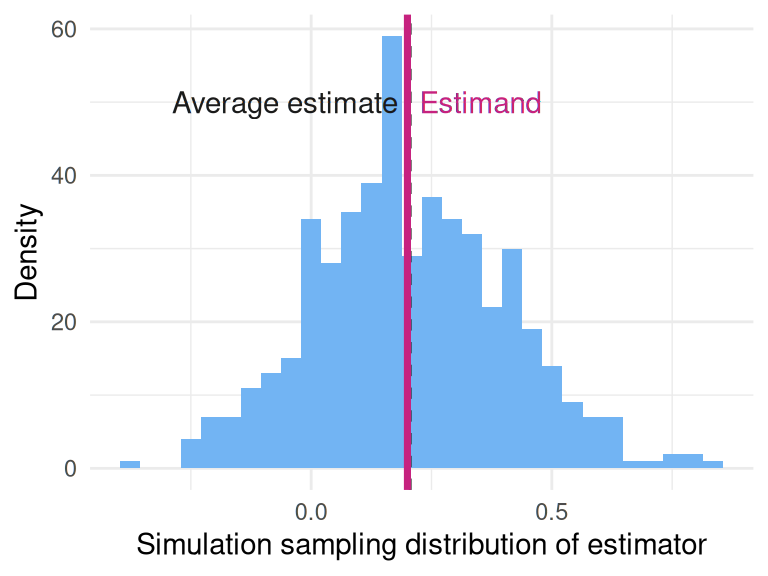
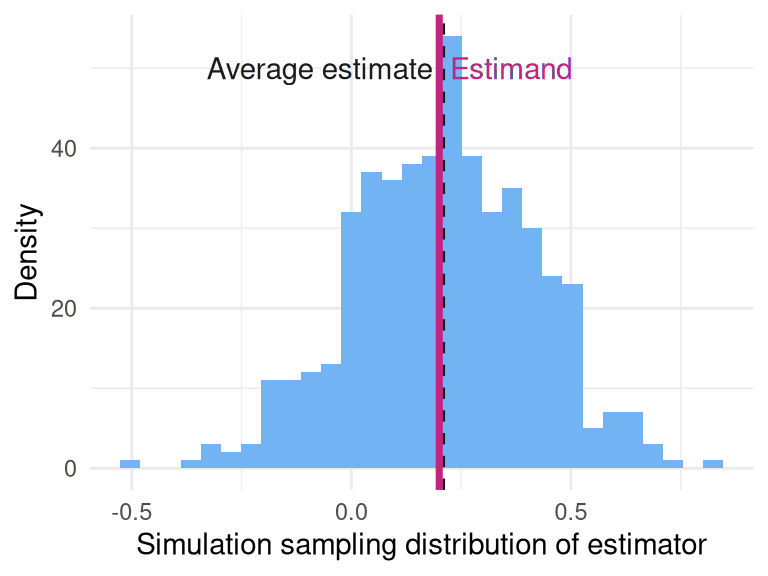
Built site for gh-pages

diff --git a/blog/index.html b/blog/index.html
@@ -239,7 +239,7 @@ window.Quarto = {
 
 <div class="quarto-listing quarto-listing-container-default" id="listing-listing">
 <div class="list quarto-listing-default">
-<div class="quarto-post image-right" data-index="0" data-listing-date-sort="1578441600000" data-listing-file-modified-sort="1738712733514" data-listing-date-modified-sort="NaN" data-listing-reading-time-sort="7" data-listing-word-count-sort="1252">
+<div class="quarto-post image-right" data-index="0" data-listing-date-sort="1578441600000" data-listing-file-modified-sort="1738718752272" data-listing-date-modified-sort="NaN" data-listing-reading-time-sort="7" data-listing-word-count-sort="1252">
 <div class="thumbnail">
 <p><a href="../blog/posts/declaredesign-wizard.html" class="no-external"></a></p><a href="../blog/posts/declaredesign-wizard.html" class="no-external">
 <p class="card-img-top"><img src="posts/rfiles/wiz_1.png"  class="thumbnail-image card-img"/></p>
@@ -267,7 +267,7 @@ Clara Bicalho, Sisi Huang, Markus Konrad
 </a>
 </div>
 </div>
-<div class="quarto-post image-right" data-index="1" data-listing-date-sort="1550534400000" data-listing-file-modified-sort="1738712733515" data-listing-date-modified-sort="NaN" data-listing-reading-time-sort="19" data-listing-word-count-sort="3634">
+<div class="quarto-post image-right" data-index="1" data-listing-date-sort="1550534400000" data-listing-file-modified-sort="1738718752272" data-listing-date-modified-sort="NaN" data-listing-reading-time-sort="19" data-listing-word-count-sort="3634">
 <div class="thumbnail">
 <p><a href="../blog/posts/instrument-does-not-have-to-be-exogenous.html" class="no-external"></a></p><a href="../blog/posts/instrument-does-not-have-to-be-exogenous.html" class="no-external">
 <p class="card-img-top"><img src="posts/instrument-does-not-have-to-be-exogenous_files/figure-html/dag-1.png"  class="thumbnail-image card-img"/></p>
@@ -295,7 +295,7 @@ Declare Design Team
 </a>
 </div>
 </div>
-<div class="quarto-post image-right" data-index="2" data-listing-date-sort="1549929600000" data-listing-file-modified-sort="1738712733514" data-listing-date-modified-sort="NaN" data-listing-reading-time-sort="10" data-listing-word-count-sort="1909">
+<div class="quarto-post image-right" data-index="2" data-listing-date-sort="1549929600000" data-listing-file-modified-sort="1738718752271" data-listing-date-modified-sort="NaN" data-listing-reading-time-sort="10" data-listing-word-count-sort="1909">
 <div class="thumbnail">
 <p><a href="../blog/posts/badly-posed-questions.html" class="no-external"></a></p><a href="../blog/posts/badly-posed-questions.html" class="no-external">
 <p class="card-img-top"><img src="posts/badly-posed-questions_files/figure-html/unnamed-chunk-6-1.png"  class="thumbnail-image card-img"/></p>
@@ -323,7 +323,7 @@ Declare Design Team
 </a>
 </div>
 </div>
-<div class="quarto-post image-right" data-index="3" data-listing-date-sort="1549411200000" data-listing-file-modified-sort="1738712733515" data-listing-date-modified-sort="NaN" data-listing-reading-time-sort="6" data-listing-word-count-sort="1191">
+<div class="quarto-post image-right" data-index="3" data-listing-date-sort="1549411200000" data-listing-file-modified-sort="1738718752273" data-listing-date-modified-sort="NaN" data-listing-reading-time-sort="6" data-listing-word-count-sort="1191">
 <div class="thumbnail">
 <p><a href="../blog/posts/ordered-probit.html" class="no-external"></a></p><a href="../blog/posts/ordered-probit.html" class="no-external">
 <p class="card-img-top"><img src="posts/ordered-probit_files/figure-html/unnamed-chunk-3-1.png"  class="thumbnail-image card-img"/></p>
@@ -351,7 +351,7 @@ DeclareDesign Team
 </a>
 </div>
 </div>
-<div class="quarto-post image-right" data-index="4" data-listing-date-sort="1548806400000" data-listing-file-modified-sort="1738712733515" data-listing-date-modified-sort="NaN" data-listing-reading-time-sort="21" data-listing-word-count-sort="4141">
+<div class="quarto-post image-right" data-index="4" data-listing-date-sort="1548806400000" data-listing-file-modified-sort="1738718752273" data-listing-date-modified-sort="NaN" data-listing-reading-time-sort="21" data-listing-word-count-sort="4141">
 <div class="thumbnail">
 <p><a href="../blog/posts/process-tracing.html" class="no-external"></a></p><a href="../blog/posts/process-tracing.html" class="no-external">
 <p class="card-img-top"><img src="posts/process-tracing_files/figure-html/unnamed-chunk-6-1.png"  class="thumbnail-image card-img"/></p>
@@ -379,7 +379,7 @@ Declare Design Team
 </a>
 </div>
 </div>
-<div class="quarto-post image-right" data-index="5" data-listing-date-sort="1548201600000" data-listing-file-modified-sort="1738712733515" data-listing-date-modified-sort="NaN" data-listing-reading-time-sort="10" data-listing-word-count-sort="1859">
+<div class="quarto-post image-right" data-index="5" data-listing-date-sort="1548201600000" data-listing-file-modified-sort="1738718752273" data-listing-date-modified-sort="NaN" data-listing-reading-time-sort="10" data-listing-word-count-sort="1859">
 <div class="thumbnail">
 <p><a href="../blog/posts/pilot-studies.html" class="no-external"></a></p><a href="../blog/posts/pilot-studies.html" class="no-external">
 <p class="card-img-top"><img src="posts/pilot-studies_files/figure-html/unnamed-chunk-8-1.png"  class="thumbnail-image card-img"/></p>
@@ -407,7 +407,7 @@ Declare Design Team
 </a>
 </div>
 </div>
-<div class="quarto-post image-right" data-index="6" data-listing-date-sort="1547510400000" data-listing-file-modified-sort="1738712734215" data-listing-date-modified-sort="NaN" data-listing-reading-time-sort="7" data-listing-word-count-sort="1384">
+<div class="quarto-post image-right" data-index="6" data-listing-date-sort="1547510400000" data-listing-file-modified-sort="1738718752982" data-listing-date-modified-sort="NaN" data-listing-reading-time-sort="7" data-listing-word-count-sort="1384">
 <div class="thumbnail">
 <p><a href="../blog/posts/use-change-scores-or-control.html" class="no-external"></a></p><a href="../blog/posts/use-change-scores-or-control.html" class="no-external">
 <p class="card-img-top"><img src="posts/use-change-scores-or-control_files/figure-html/unnamed-chunk-4-1.png"  class="thumbnail-image card-img"/></p>
@@ -435,7 +435,7 @@ DeclareDesign Team
 </a>
 </div>
 </div>
-<div class="quarto-post image-right" data-index="7" data-listing-date-sort="1546905600000" data-listing-file-modified-sort="1738712733514" data-listing-date-modified-sort="NaN" data-listing-reading-time-sort="7" data-listing-word-count-sort="1299">
+<div class="quarto-post image-right" data-index="7" data-listing-date-sort="1546905600000" data-listing-file-modified-sort="1738718752271" data-listing-date-modified-sort="NaN" data-listing-reading-time-sort="7" data-listing-word-count-sort="1299">
 <div class="thumbnail">
 <p><a href="../blog/posts/a-journal-of-null-results-is-a-flawed-fix-for-a-significance-filter.html" class="no-external"></a></p><a href="../blog/posts/a-journal-of-null-results-is-a-flawed-fix-for-a-significance-filter.html" class="no-external">
 <p class="card-img-top"><img src="posts/a-journal-of-null-results-is-a-flawed-fix-for-a-significance-filter_files/figure-html/unnamed-chunk-4-1.png"  class="thumbnail-image card-img"/></p>
@@ -463,7 +463,7 @@ DeclareDesign Team
 </a>
 </div>
 </div>
-<div class="quarto-post image-right" data-index="8" data-listing-date-sort="1545264000000" data-listing-file-modified-sort="1738712733514" data-listing-date-modified-sort="NaN" data-listing-reading-time-sort="1" data-listing-word-count-sort="89">
+<div class="quarto-post image-right" data-index="8" data-listing-date-sort="1545264000000" data-listing-file-modified-sort="1738718752272" data-listing-date-modified-sort="NaN" data-listing-reading-time-sort="1" data-listing-word-count-sort="89">
 <div class="thumbnail">
 <p><a href="../blog/posts/declaredesign-holiday-hiatus.html" class="no-external"></a></p><a href="../blog/posts/declaredesign-holiday-hiatus.html" class="no-external">
 <p class="card-img-top"><img src="posts/declaredesign-holiday-hiatus_files/figure-html/unnamed-chunk-1-1.png"  class="thumbnail-image card-img"/></p>
@@ -491,7 +491,7 @@ DeclareDesign Team
 </a>
 </div>
 </div>
-<div class="quarto-post image-right" data-index="9" data-listing-date-sort="1545091200000" data-listing-file-modified-sort="1738712734215" data-listing-date-modified-sort="NaN" data-listing-reading-time-sort="11" data-listing-word-count-sort="2163">
+<div class="quarto-post image-right" data-index="9" data-listing-date-sort="1545091200000" data-listing-file-modified-sort="1738718752982" data-listing-date-modified-sort="NaN" data-listing-reading-time-sort="11" data-listing-word-count-sort="2163">
 <div class="thumbnail">
 <p><a href="../blog/posts/sometimes-you-need-to-cluster-standard-errors-above-level-of-treatment.html" class="no-external"></a></p><a href="../blog/posts/sometimes-you-need-to-cluster-standard-errors-above-level-of-treatment.html" class="no-external">
 <p class="card-img-top"><img src="posts/sometimes-you-need-to-cluster-standard-errors-above-level-of-treatment_files/figure-html/std.error_plot1-1.png"  class="thumbnail-image card-img"/></p>
@@ -519,7 +519,7 @@ DeclareDesign Team
 </a>
 </div>
 </div>
-<div class="quarto-post image-right" data-index="10" data-listing-date-sort="1543881600000" data-listing-file-modified-sort="1738712733514" data-listing-date-modified-sort="NaN" data-listing-reading-time-sort="12" data-listing-word-count-sort="2278">
+<div class="quarto-post image-right" data-index="10" data-listing-date-sort="1543881600000" data-listing-file-modified-sort="1738718752272" data-listing-date-modified-sort="NaN" data-listing-reading-time-sort="12" data-listing-word-count-sort="2278">
 <div class="thumbnail">
 <p><a href="../blog/posts/give-me-a-random-assignment-yesterday.html" class="no-external"></a></p><a href="../blog/posts/give-me-a-random-assignment-yesterday.html" class="no-external">
 <p class="card-img-top"><img src="posts/give-me-a-random-assignment-yesterday_files/figure-html/unnamed-chunk-14-1.png"  class="thumbnail-image card-img"/></p>
@@ -547,7 +547,7 @@ DeclareDesign Team
 </a>
 </div>
 </div>
-<div class="quarto-post image-right" data-index="11" data-listing-date-sort="1543276800000" data-listing-file-modified-sort="1738712733515" data-listing-date-modified-sort="NaN" data-listing-reading-time-sort="11" data-listing-word-count-sort="2014">
+<div class="quarto-post image-right" data-index="11" data-listing-date-sort="1543276800000" data-listing-file-modified-sort="1738718752273" data-listing-date-modified-sort="NaN" data-listing-reading-time-sort="11" data-listing-word-count-sort="2014">
 <div class="thumbnail">
 <p><a href="../blog/posts/randomization-does-not-justify-t-tests.html" class="no-external"></a></p><a href="../blog/posts/randomization-does-not-justify-t-tests.html" class="no-external">
 <p class="card-img-top"><img src="posts/randomization-does-not-justify-t-tests_files/figure-html/unnamed-chunk-4-1.png"  class="thumbnail-image card-img"/></p>
@@ -575,7 +575,7 @@ DeclareDesign Team
 </a>
 </div>
 </div>
-<div class="quarto-post image-right" data-index="12" data-listing-date-sort="1542672000000" data-listing-file-modified-sort="1738712733515" data-listing-date-modified-sort="NaN" data-listing-reading-time-sort="12" data-listing-word-count-sort="2373">
+<div class="quarto-post image-right" data-index="12" data-listing-date-sort="1542672000000" data-listing-file-modified-sort="1738718752272" data-listing-date-modified-sort="NaN" data-listing-reading-time-sort="12" data-listing-word-count-sort="2373">
 <div class="thumbnail">
 <p><a href="../blog/posts/modelling-spillovers.html" class="no-external"></a></p><a href="../blog/posts/modelling-spillovers.html" class="no-external">
 <p class="card-img-top"><img src="posts/modelling-spillovers_files/figure-html/unnamed-chunk-2-1.png"  class="thumbnail-image card-img"/></p>
@@ -603,7 +603,7 @@ DeclareDesign Team
 </a>
 </div>
 </div>
-<div class="quarto-post image-right" data-index="13" data-listing-date-sort="1542067200000" data-listing-file-modified-sort="1738712733515" data-listing-date-modified-sort="NaN" data-listing-reading-time-sort="9" data-listing-word-count-sort="1716">
+<div class="quarto-post image-right" data-index="13" data-listing-date-sort="1542067200000" data-listing-file-modified-sort="1738718752272" data-listing-date-modified-sort="NaN" data-listing-reading-time-sort="9" data-listing-word-count-sort="1716">
 <div class="thumbnail">
 <p><a href="../blog/posts/learning-from-p.html" class="no-external"></a></p><a href="../blog/posts/learning-from-p.html" class="no-external">
 <p class="card-img-top"><img src="posts/learning-from-p_files/figure-html/unnamed-chunk-4-1.png"  class="thumbnail-image card-img"/></p>
@@ -631,7 +631,7 @@ DeclareDesign Team
 </a>
 </div>
 </div>
-<div class="quarto-post image-right" data-index="14" data-listing-date-sort="1541548800000" data-listing-file-modified-sort="1738712733515" data-listing-date-modified-sort="NaN" data-listing-reading-time-sort="11" data-listing-word-count-sort="2121">
+<div class="quarto-post image-right" data-index="14" data-listing-date-sort="1541548800000" data-listing-file-modified-sort="1738718752272" data-listing-date-modified-sort="NaN" data-listing-reading-time-sort="11" data-listing-word-count-sort="2121">
 <div class="thumbnail">
 <p><a href="../blog/posts/neyman-sate-pate.html" class="no-external"></a></p><a href="../blog/posts/neyman-sate-pate.html" class="no-external">
 <p class="card-img-top"><img src="posts/neyman-sate-pate_files/figure-html/unnamed-chunk-8-1.png"  class="thumbnail-image card-img"/></p>
@@ -659,7 +659,7 @@ DeclareDesign Team
 </a>
 </div>
 </div>
-<div class="quarto-post image-right" data-index="15" data-listing-date-sort="1540944000000" data-listing-file-modified-sort="1738712733514" data-listing-date-modified-sort="NaN" data-listing-reading-time-sort="9" data-listing-word-count-sort="1711">
+<div class="quarto-post image-right" data-index="15" data-listing-date-sort="1540944000000" data-listing-file-modified-sort="1738718752271" data-listing-date-modified-sort="NaN" data-listing-reading-time-sort="9" data-listing-word-count-sort="1711">
 <div class="thumbnail">
 <p><a href="../blog/posts/bias-cluster-randomized-trials.html" class="no-external"></a></p><a href="../blog/posts/bias-cluster-randomized-trials.html" class="no-external">
 <p class="card-img-top"><img src="posts/bias-cluster-randomized-trials_files/figure-html/unnamed-chunk-5-1.png"  class="thumbnail-image card-img"/></p>
@@ -687,7 +687,7 @@ DeclareDesign Team
 </a>
 </div>
 </div>
-<div class="quarto-post image-right" data-index="16" data-listing-date-sort="1540252800000" data-listing-file-modified-sort="1738712734215" data-listing-date-modified-sort="NaN" data-listing-reading-time-sort="6" data-listing-word-count-sort="1038">
+<div class="quarto-post image-right" data-index="16" data-listing-date-sort="1540252800000" data-listing-file-modified-sort="1738718752982" data-listing-date-modified-sort="NaN" data-listing-reading-time-sort="6" data-listing-word-count-sort="1038">
 <div class="thumbnail">
 <p><a href="../blog/posts/with-great-power-comes-great-responsibility.html" class="no-external"></a></p><a href="../blog/posts/with-great-power-comes-great-responsibility.html" class="no-external">
 <p class="card-img-top"><img src="posts/with-great-power-comes-great-responsibility_files/figure-html/unnamed-chunk-6-1.png"  class="thumbnail-image card-img"/></p>
@@ -715,7 +715,7 @@ Declare Design Team
 </a>
 </div>
 </div>
-<div class="quarto-post image-right" data-index="17" data-listing-date-sort="1539648000000" data-listing-file-modified-sort="1738712733514" data-listing-date-modified-sort="NaN" data-listing-reading-time-sort="7" data-listing-word-count-sort="1313">
+<div class="quarto-post image-right" data-index="17" data-listing-date-sort="1539648000000" data-listing-file-modified-sort="1738718752272" data-listing-date-modified-sort="NaN" data-listing-reading-time-sort="7" data-listing-word-count-sort="1313">
 <div class="thumbnail">
 <p><a href="../blog/posts/how-misleading-are-clustered-ses-in-designs-with-few-clusters.html" class="no-external"></a></p><a href="../blog/posts/how-misleading-are-clustered-ses-in-designs-with-few-clusters.html" class="no-external">
 <p class="card-img-top"><img src="posts/how-misleading-are-clustered-ses-in-designs-with-few-clusters_files/figure-html/unnamed-chunk-6-1.png"  class="thumbnail-image card-img"/></p>
@@ -743,7 +743,7 @@ DeclareDesign Team
 </a>
 </div>
 </div>
-<div class="quarto-post image-right" data-index="18" data-listing-date-sort="1539043200000" data-listing-file-modified-sort="1738712733514" data-listing-date-modified-sort="NaN" data-listing-reading-time-sort="14" data-listing-word-count-sort="2783">
+<div class="quarto-post image-right" data-index="18" data-listing-date-sort="1539043200000" data-listing-file-modified-sort="1738718752272" data-listing-date-modified-sort="NaN" data-listing-reading-time-sort="14" data-listing-word-count-sort="2783">
 <div class="thumbnail">
 <p><a href="../blog/posts/biased-fixed-effects.html" class="no-external"></a></p><a href="../blog/posts/biased-fixed-effects.html" class="no-external">
 <p class="card-img-top"><img src="posts/biased-fixed-effects_files/figure-html/unnamed-chunk-16-1.png"  class="thumbnail-image card-img"/></p>
@@ -771,7 +771,7 @@ Declare Design Team
 </a>
 </div>
 </div>
-<div class="quarto-post image-right" data-index="19" data-listing-date-sort="1538438400000" data-listing-file-modified-sort="1738712733515" data-listing-date-modified-sort="NaN" data-listing-reading-time-sort="6" data-listing-word-count-sort="1040">
+<div class="quarto-post image-right" data-index="19" data-listing-date-sort="1538438400000" data-listing-file-modified-sort="1738718752272" data-listing-date-modified-sort="NaN" data-listing-reading-time-sort="6" data-listing-word-count-sort="1040">
 <div class="thumbnail">
 <p><a href="../blog/posts/improve-power-using-your-answer-strategy-not-just-your-data-strategy.html" class="no-external"></a></p><a href="../blog/posts/improve-power-using-your-answer-strategy-not-just-your-data-strategy.html" class="no-external">
 <p class="card-img-top"><img src="posts/improve-power-using-your-answer-strategy-not-just-your-data-strategy_files/figure-html/unnamed-chunk-12-1.png"  class="thumbnail-image card-img"/></p>
@@ -799,7 +799,7 @@ DeclareDesign Team
 </a>
 </div>
 </div>
-<div class="quarto-post image-right" data-index="20" data-listing-date-sort="1537747200000" data-listing-file-modified-sort="1738712734215" data-listing-date-modified-sort="NaN" data-listing-reading-time-sort="10" data-listing-word-count-sort="1815">
+<div class="quarto-post image-right" data-index="20" data-listing-date-sort="1537747200000" data-listing-file-modified-sort="1738718752982" data-listing-date-modified-sort="NaN" data-listing-reading-time-sort="10" data-listing-word-count-sort="1815">
 <div class="thumbnail">
 <p><a href="../blog/posts/sometimes-blocking-can-reduce-your-precision.html" class="no-external"></a></p><a href="../blog/posts/sometimes-blocking-can-reduce-your-precision.html" class="no-external">
 <p class="card-img-top"><img src="posts/sometimes-blocking-can-reduce-your-precision_files/figure-html/unnamed-chunk-7-1.png"  class="thumbnail-image card-img"/></p>
@@ -827,7 +827,7 @@ DeclareDesign Team
 </a>
 </div>
 </div>
-<div class="quarto-post image-right" data-index="21" data-listing-date-sort="1537228800000" data-listing-file-modified-sort="1738712734215" data-listing-date-modified-sort="NaN" data-listing-reading-time-sort="9" data-listing-word-count-sort="1778">
+<div class="quarto-post image-right" data-index="21" data-listing-date-sort="1537228800000" data-listing-file-modified-sort="1738718752982" data-listing-date-modified-sort="NaN" data-listing-reading-time-sort="9" data-listing-word-count-sort="1778">
 <div class="thumbnail">
 <p><a href="../blog/posts/you-cant-speak-meaningfully-about-spillovers-without-specifying-an-estimand.html" class="no-external"></a></p><a href="../blog/posts/you-cant-speak-meaningfully-about-spillovers-without-specifying-an-estimand.html" class="no-external">
 <div class="listing-item-img-placeholder card-img-top" >&nbsp;</div>
@@ -855,7 +855,7 @@ DeclareDesign Team
 </a>
 </div>
 </div>
-<div class="quarto-post image-right" data-index="22" data-listing-date-sort="1536710400000" data-listing-file-modified-sort="1738712733514" data-listing-date-modified-sort="NaN" data-listing-reading-time-sort="5" data-listing-word-count-sort="924">
+<div class="quarto-post image-right" data-index="22" data-listing-date-sort="1536710400000" data-listing-file-modified-sort="1738718752272" data-listing-date-modified-sort="NaN" data-listing-reading-time-sort="5" data-listing-word-count-sort="924">
 <div class="thumbnail">
 <p><a href="../blog/posts/how-controlling-for-pretreatment-covariates-can-introduce-bias.html" class="no-external"></a></p><a href="../blog/posts/how-controlling-for-pretreatment-covariates-can-introduce-bias.html" class="no-external">
 <p class="card-img-top"><img src="posts/how-controlling-for-pretreatment-covariates-can-introduce-bias_files/figure-html/unnamed-chunk-9-1.png"  class="thumbnail-image card-img"/></p>
@@ -883,7 +883,7 @@ DeclareDesign Team
 </a>
 </div>
 </div>
-<div class="quarto-post image-right" data-index="23" data-listing-date-sort="1536624000000" data-listing-file-modified-sort="1738712733514" data-listing-date-modified-sort="NaN" data-listing-reading-time-sort="1" data-listing-word-count-sort="163">
+<div class="quarto-post image-right" data-index="23" data-listing-date-sort="1536624000000" data-listing-file-modified-sort="1738718752272" data-listing-date-modified-sort="NaN" data-listing-reading-time-sort="1" data-listing-word-count-sort="163">
 <div class="thumbnail">
 <p><a href="../blog/posts/declaredesign-blog.html" class="no-external"></a></p><a href="../blog/posts/declaredesign-blog.html" class="no-external">
 <div class="listing-item-img-placeholder card-img-top" >&nbsp;</div>

diff --git a/index.html b/index.html
@@ -283,27 +283,27 @@ DeclareDesign is a set of software tools to plan, implement, analyze, and commun
 <tbody>
 <tr class="odd">
 <td style="text-align: left;">001</td>
-<td style="text-align: right;">0.77</td>
-<td style="text-align: right;">0.77</td>
-<td style="text-align: right;">0.97</td>
+<td style="text-align: right;">0.20</td>
+<td style="text-align: right;">0.20</td>
+<td style="text-align: right;">0.40</td>
 <td style="text-align: right;">0</td>
-<td style="text-align: right;">0.77</td>
+<td style="text-align: right;">0.20</td>
 </tr>
 <tr class="even">
 <td style="text-align: left;">002</td>
-<td style="text-align: right;">1.51</td>
-<td style="text-align: right;">1.51</td>
-<td style="text-align: right;">1.71</td>
+<td style="text-align: right;">1.48</td>
+<td style="text-align: right;">1.48</td>
+<td style="text-align: right;">1.68</td>
 <td style="text-align: right;">0</td>
-<td style="text-align: right;">1.51</td>
+<td style="text-align: right;">1.48</td>
 </tr>
 <tr class="odd">
 <td style="text-align: left;">003</td>
-<td style="text-align: right;">-0.73</td>
-<td style="text-align: right;">-0.73</td>
-<td style="text-align: right;">-0.53</td>
+<td style="text-align: right;">0.77</td>
+<td style="text-align: right;">0.77</td>
+<td style="text-align: right;">0.97</td>
 <td style="text-align: right;">1</td>
-<td style="text-align: right;">-0.53</td>
+<td style="text-align: right;">0.97</td>
 </tr>
 </tbody>
 </table>
@@ -327,9 +327,9 @@ DeclareDesign is a set of software tools to plan, implement, analyze, and commun
 </thead>
 <tbody>
 <tr class="odd">
-<td style="text-align: right;">0.33</td>
-<td style="text-align: right;">0.2</td>
-<td style="text-align: right;">0.1</td>
+<td style="text-align: right;">0</td>
+<td style="text-align: right;">0.19</td>
+<td style="text-align: right;">0.99</td>
 <td style="text-align: left;">ATE</td>
 <td style="text-align: right;">0.2</td>
 </tr>
@@ -367,33 +367,33 @@ DeclareDesign is a set of software tools to plan, implement, analyze, and commun
 </tr>
 <tr class="even">
 <td style="text-align: left;">mean_estimate</td>
-<td style="text-align: right;">0.206</td>
+<td style="text-align: right;">0.210</td>
 <td style="text-align: right;">0.009</td>
 </tr>
 <tr class="odd">
 <td style="text-align: left;">bias</td>
-<td style="text-align: right;">0.006</td>
+<td style="text-align: right;">0.010</td>
 <td style="text-align: right;">0.009</td>
 </tr>
 <tr class="even">
 <td style="text-align: left;">sd_estimate</td>
-<td style="text-align: right;">0.202</td>
-<td style="text-align: right;">0.006</td>
+<td style="text-align: right;">0.206</td>
+<td style="text-align: right;">0.007</td>
 </tr>
 <tr class="odd">
 <td style="text-align: left;">rmse</td>
-<td style="text-align: right;">0.201</td>
-<td style="text-align: right;">0.006</td>
+<td style="text-align: right;">0.206</td>
+<td style="text-align: right;">0.007</td>
 </tr>
 <tr class="even">
 <td style="text-align: left;">power</td>
-<td style="text-align: right;">0.178</td>
-<td style="text-align: right;">0.019</td>
+<td style="text-align: right;">0.180</td>
+<td style="text-align: right;">0.017</td>
 </tr>
 <tr class="odd">
 <td style="text-align: left;">coverage</td>
 <td style="text-align: right;">0.942</td>
-<td style="text-align: right;">0.011</td>
+<td style="text-align: right;">0.010</td>
 </tr>
 </tbody>
 </table>
